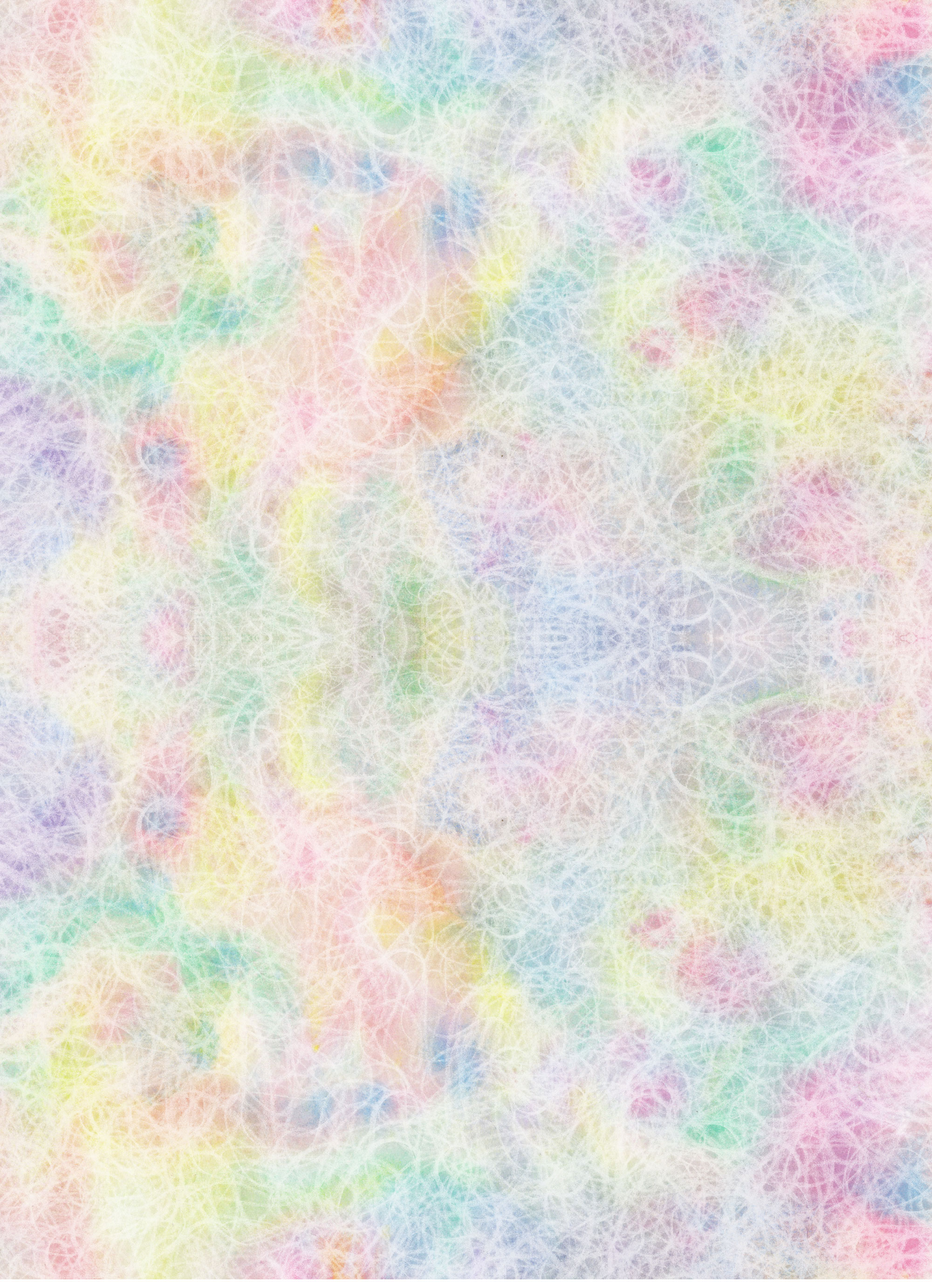
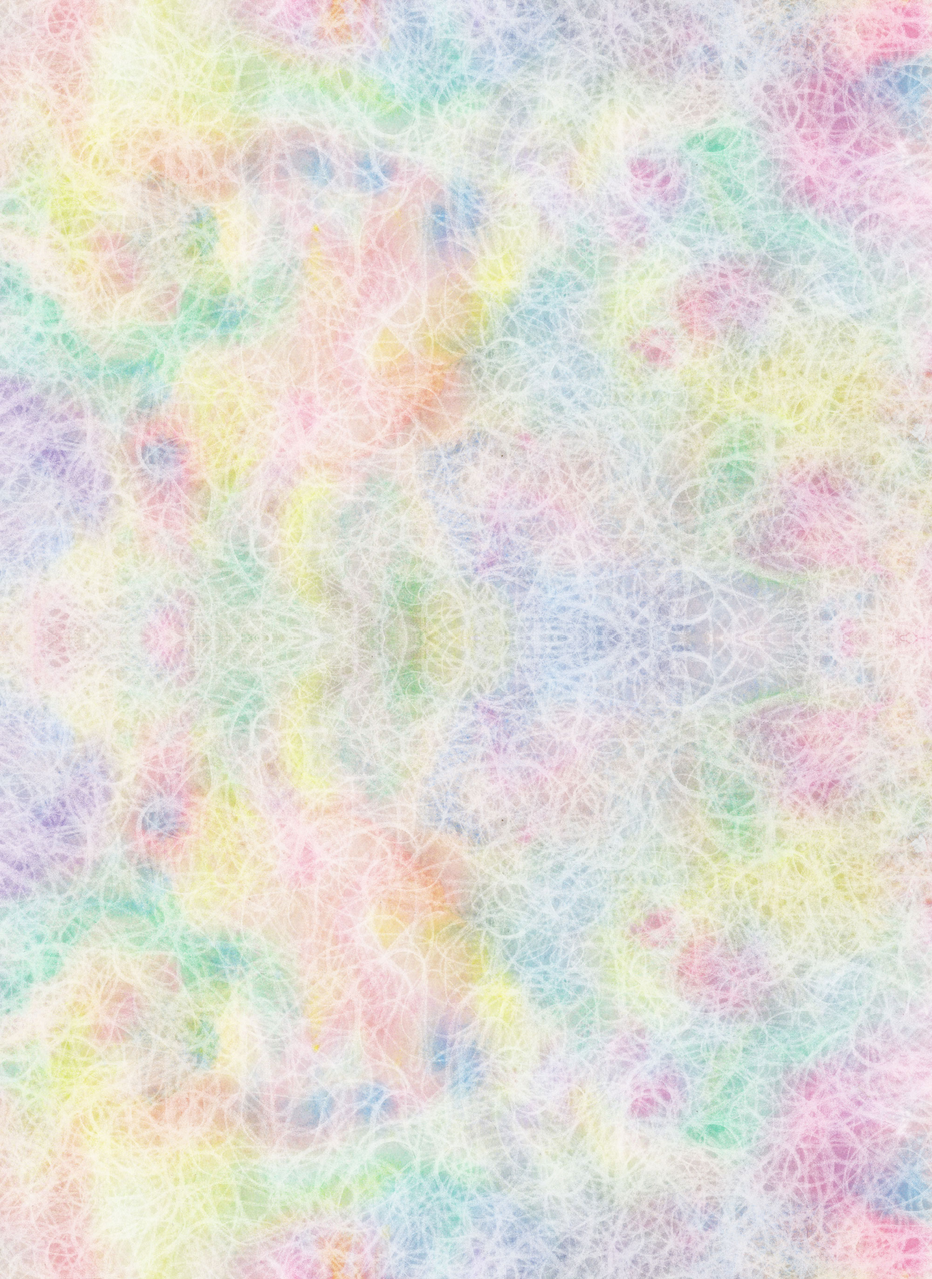
Fixed main background. Fixed the Gallery page. Quicksand font added as a main font.

diff --git a/src/app/layout.jsx b/src/app/layout.jsx
@@ -1,17 +1,17 @@
 import localFont from "next/font/local";
+import { Quicksand } from "next/font/google";
 import { siteConfig } from "../config/site";
 import "../styles/globals.css";
 
-const headerFont = localFont({
-  variable: "--font-brush-pen",
-  src: "../fonts/BrushPen-Regular.ttf",
-  display: "swap",
+const fontSans = Quicksand({
+  weight: "300",
+  subsets: ["latin"],
+  variable: "--font-sans",
 });
 
-const appFont = localFont({
-  variable: "--font-quicksand",
-  src: "../fonts/Quicksand.ttf",
-  display: "swap",
+const fontHeading = localFont({
+  src: "../fonts/BrushPen-Regular.ttf",
+  variable: "--font-heading",
 });
 
 export const metadata = {
@@ -55,7 +55,7 @@ export const metadata = {
 
 export default function RootLayout({ children }) {
   return (
-    <html lang="en" className={(appFont.className, headerFont.className)}>
+    <html lang="en" className={`${fontHeading.variable} ${fontSans.variable}`}>
       <body>{children}</body>
     </html>
   );

diff --git a/src/app/(gallery)/gallery/page.jsx b/src/app/(gallery)/gallery/page.jsx
@@ -8,7 +8,7 @@ import btnShape3 from "@/src/images/button_shapes/button_shape1.png";
 
 const GalleryPage = () => {
   return (
-    <div className="flex flex-col lg:flex-row grow overflow-hidden justify-center items-center">
+    <div className="flex flex-col w-full h-screen">
       <div className="px-5 lg:min-w-[80px] h-full">
         <div className="flex flex-col justify-around items-center h-full gap-12">
           <div className="flex flex-col justify-between items-center gap-10">
@@ -43,7 +43,9 @@ const GalleryPage = () => {
                       href={sidebarItem.href}
                       className="relative px-6 py-3 text-black group text-5xl"
                     >
-                      <span className="relative ">{sidebarItem.title}</span>
+                      <span className="relative ">
+                        <h1>{sidebarItem.title}</h1>
+                      </span>
                     </Link>
                   </div>
                 </div>

diff --git a/src/components/app-footer.jsx b/src/components/app-footer.jsx
@@ -17,12 +17,14 @@ export const AppFooter = () => {
                 key={nav.href}
                 className="text-2xl  md:text-xl inline-block relative pr-5 before:content-['/'] before:absolute before:top-1/2 before:-translate-y-1/2 before:right-0 before:decoration-[rgba(0,0,0,0.322)] last:pr-0 last-of-type:before:hidden"
               >
-                <Link
-                  className="text-black/40 hover:text-black"
-                  href={nav.href}
-                >
-                  {nav.title}
-                </Link>
+                <h5>
+                  <Link
+                    className="text-black/40 hover:text-black"
+                    href={nav.href}
+                  >
+                    {nav.title}
+                  </Link>
+                </h5>
               </li>
             ))}
           </ul>

diff --git a/src/components/sections/contact-section.jsx b/src/components/sections/contact-section.jsx
@@ -29,7 +29,7 @@ const ContactSection = () => {
               </h1>
             </div>
           </div>
-          <div className="mt-12 max-w-lg mx-auto">
+          <div className="mt-12 max-w-lg mx-auto mb-10">
             {/* Card */}
             <div className="flex flex-col border rounded-xl p-4 sm:p-6 lg:p-12 dark:border-gray-700  bg-white  font-serif">
               <h2 className="mb-3 text-xl font-semibold text-gray-800 dark:text-gray-200">

diff --git a/src/app/(gallery)/gallery/sketchbooks/page.jsx b/src/app/(gallery)/gallery/sketchbooks/page.jsx
@@ -8,7 +8,7 @@ const SketchbooksPage = () => {
       <div className="relative ">
         <Image className="drop-shadow-2xl" src={buttonShape} width={650} />
         <div className="absolute inset-0 grid place-content-center w-full h-full z-10 ">
-          <p className="text-6xl">Sketchbook</p>
+          <h1 className="text-6xl">Sketchbook</h1>
         </div>
       </div>
       <div className="flex flex-col justify-center w-full gap-5">

diff --git a/src/app/(gallery)/gallery/illustrations/page.jsx b/src/app/(gallery)/gallery/illustrations/page.jsx
@@ -11,7 +11,7 @@ const IllustrationsPage = () => {
       <div className="relative ">
         <Image className="drop-shadow-2xl" src={buttonShape} width={650} />
         <div className="absolute inset-0 grid place-content-center w-full h-full z-10 ">
-          <p className="text-6xl">Illustration</p>
+          <h1 className="text-6xl">Illustration</h1>
         </div>
       </div>
       <div className="flex flex-col gap-12 h-full">

diff --git a/src/app/(gallery)/gallery/animations/page.jsx b/src/app/(gallery)/gallery/animations/page.jsx
@@ -11,7 +11,7 @@ const AnimationsPage = () => {
       <div className="relative ">
         <Image className="drop-shadow-2xl" src={buttonShape} width={650} />
         <div className="absolute inset-0 grid place-content-center w-full h-full z-10 ">
-          <p className="text-6xl">Animation</p>
+          <h1 className="text-6xl">Animation</h1>
         </div>
       </div>
       <div className="flex flex-col gap-12 h-full">

diff --git a/src/styles/globals.css b/src/styles/globals.css
@@ -15,7 +15,7 @@ body {
   display: flex;
   flex-direction: column;
   z-index: 1;
-  background-repeat: no-repeat;
+  background-repeat: repeat;
   background-size: cover;
   font-family: var(--font-quicksand), sans-serif;
 }
@@ -62,5 +62,5 @@ h3,
 h4,
 h5,
 h6 {
-  font-family: var(--font-brush-pen), sans-serif;
+  font-family: var(--font-heading), sans-serif;
 }

diff --git a/src/components/app-navigation.jsx b/src/components/app-navigation.jsx
@@ -21,7 +21,7 @@ export const AppNavigation = () => {
         <div className="flex gap-6 items-center pl-6">
           {navigationConfig.mainNav.map((nav, index) => (
             <Link key={index} className="text-3xl h-fit" href={nav.href}>
-              {nav.title}
+              <h1>{nav.title}</h1>
             </Link>
           ))}
         </div>

diff --git a/tailwind.config.js b/tailwind.config.js
@@ -21,7 +21,8 @@ module.exports = {
     },
     extend: {
       fontFamily: {
-        sans: ["var(--font-brush-pen)", ...fontFamily.sans],
+        heading: ["var(--font-heading)", ...fontFamily.sans],
+        sans: ["var(--font-sans)", ...fontFamily.sans],
       },
     },
   },
